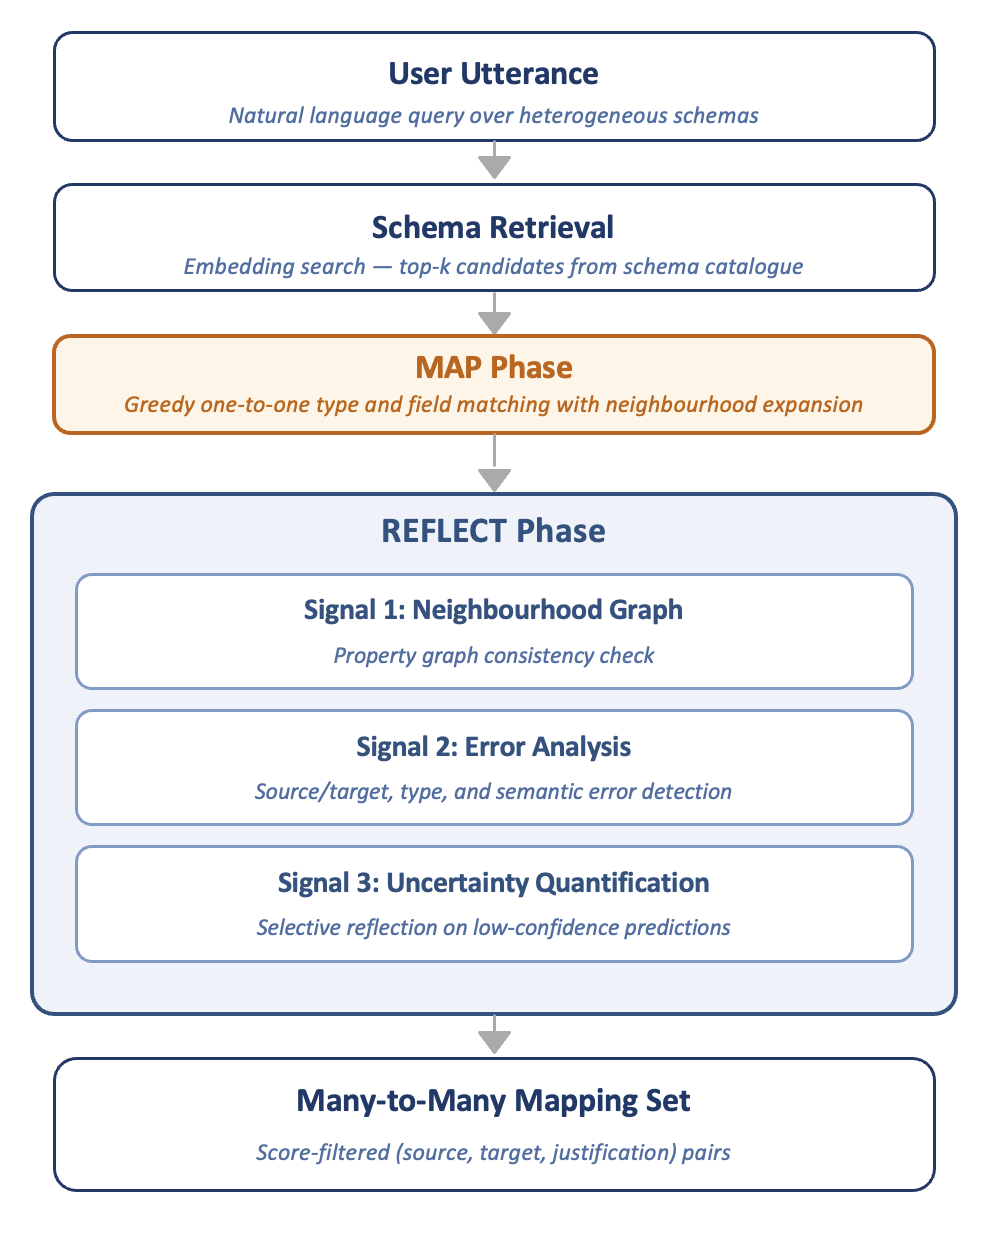
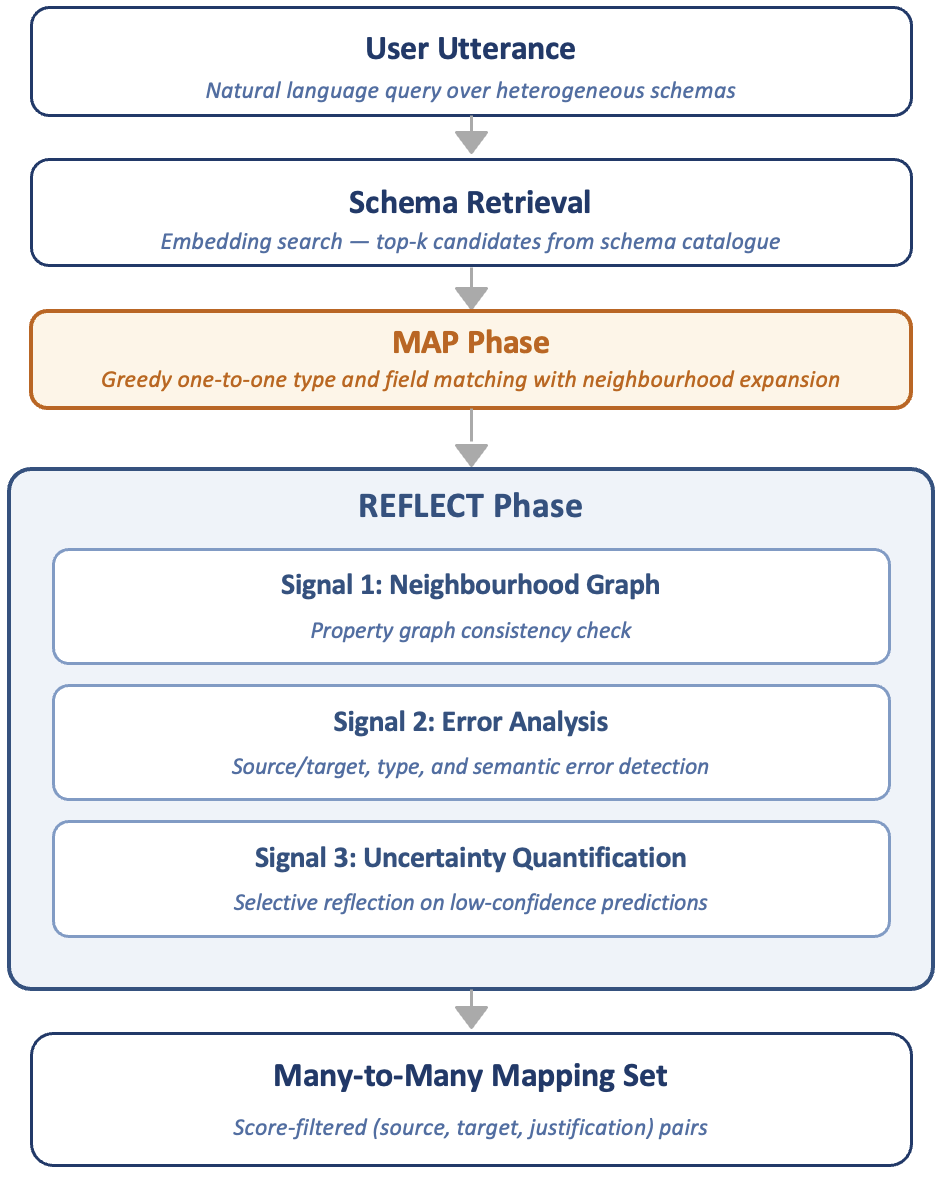
Add litellm fallback and update data scripts
- anytool: Add litellm fallback when WatsonX SDK unavailable
- data scripts: Enhanced hierarchy conversion and NL2GQL eval creation
- .gitignore: Add *.graphql data files
- paper: Updated intro diagram
- Remove HANDOFF.md (no longer needed)

Changed region(s): [[0.0, 0.0, 1.0, 1.0]]

diff --git a/data/convert_hierarchy_for_anytool.py b/data/convert_hierarchy_for_anytool.py
@@ -1,63 +1,146 @@
 #!/usr/bin/env python3
 """Convert OMOP hierarchy file format for AnyTool compatibility.
 
-Our format:
+AnyTool agent (anytool_agent.py) expects properties as OBJECTS with name/description/type:
 {
   "OMOP": {
-    "PERSON": {
-      "fields": [{"name": "field1", ...}],
-      "description": "..."
-    }
+    "PERSON": [
+      {"name": "person_id", "description": "Primary key", "type": "INTEGER"},
+      {"name": "gender_concept_id", "description": "Gender concept", "type": "INTEGER"}
+    ]
   }
 }
 
-AnyTool expects:
+But our hierarchy files have properties as STRINGS:
 {
   "OMOP": {
-    "PERSON": [{"name": "field1", ...}]  # Just the fields list
+    "PERSON": ["person_id", "gender_concept_id", ...]
   }
 }
+
+This script converts string lists to object lists, enriching with descriptions from API lookup.
 """
 
 import json
 import sys
 from pathlib import Path
 
-def convert_hierarchy(input_file: str, output_file: str = None):
-    """Convert hierarchy file format for AnyTool."""
+def convert_hierarchy(input_file: str, output_file: str = None, api_lookup_file: str = None):
+    """Convert hierarchy file format for AnyTool.
+
+    Args:
+        input_file: Input hierarchy JSON file
+        output_file: Output file (defaults to input_anytool_v2.json)
+        api_lookup_file: Optional API lookup file to get field descriptions
+    """
     with open(input_file) as f:
         data = json.load(f)
+
+    # Load API lookup for descriptions if available
+    api_lookup = {}
+    if api_lookup_file:
+        try:
+            with open(api_lookup_file) as f:
+                api_data = json.load(f)
+                for prop in api_data.get('properties', []):
+                    name = prop.get('name', '').lower()
+                    if name:
+                        api_lookup[name] = prop
+        except Exception as e:
+            print(f"Warning: Could not load API lookup: {e}")
 
     converted = {}
     for product_name, product_data in data.items():
         converted[product_name] = {}
         if isinstance(product_data, dict):
             for type_name, type_data in product_data.items():
+                # Get field list based on input format
                 if isinstance(type_data, dict) and 'fields' in type_data:
-                    # Convert from {fields: [...], description: "..."} to just [...]
-                    converted[product_name][type_name] = type_data['fields']
+                    fields = type_data['fields']
+                    type_desc = type_data.get('description', '')
                 elif isinstance(type_data, list):
-                    # Already in the right format
-                    converted[product_name][type_name] = type_data
+                    fields = type_data
+                    type_desc = ''
                 else:
                     print(f"Warning: Unexpected type_data format for {product_name}.{type_name}: {type(type_data)}")
-                    converted[product_name][type_name] = []
+                    fields = []
+                    type_desc = ''
+
+                # Convert each field to object format
+                field_objects = []
+                for field in fields:
+                    if isinstance(field, dict):
+                        # Already an object
+                        field_objects.append(field)
+                    elif isinstance(field, str):
+                        # String - convert to object with description
+                        # Look up description in API lookup
+                        lookup_key = f"{product_name.lower()}_{type_name.lower()}.{field}".lower()
+                        field_info = api_lookup.get(lookup_key, {})
+                        if not field_info:
+                            field_info = api_lookup.get(field.lower(), {})
+
+                        field_objects.append({
+                            "name": field,
+                            "description": field_info.get('description', f"{field} field in {type_name}"),
+                            "type": field_info.get('type', 'STRING')
+                        })
+
+                converted[product_name][type_name] = field_objects
 
     if output_file is None:
-        # Default output: replace .json with _anytool.json
-        output_file = input_file.replace('.json', '_anytool.json')
+        # Default output: replace .json with _anytool_v2.json
+        output_file = input_file.replace('.json', '_anytool_v2.json')
 
     with open(output_file, 'w') as f:
         json.dump(converted, f, indent=2)
 
     print(f"Converted {input_file} -> {output_file}")
+
+    # Print summary
+    for prod in converted:
+        total_fields = sum(len(converted[prod][t]) for t in converted[prod])
+        print(f"  {prod}: {len(converted[prod])} types, {total_fields} fields")
+
     return output_file
+
+
+def convert_all_omop():
+    """Convert all OMOP hierarchy files."""
+    data_dir = Path(__file__).parent
+
+    conversions = [
+        ('omop_cms_hierarchy.json', 'omop_cms_hierarchy_anytool_v2.json', 'omop_cms_api_lookup.json'),
+        ('omop_mimic_hierarchy.json', 'omop_mimic_hierarchy_anytool_v2.json', 'omop_mimic_api_lookup.json'),
+        ('omop_synthea_hierarchy.json', 'omop_synthea_hierarchy_anytool_v2.json', 'omop_synthea_api_lookup.json'),
+    ]
+
+    for input_name, output_name, lookup_name in conversions:
+        input_file = data_dir / input_name
+        output_file = data_dir / output_name
+        lookup_file = data_dir / lookup_name
+
+        if input_file.exists():
+            convert_hierarchy(
+                str(input_file),
+                str(output_file),
+                str(lookup_file) if lookup_file.exists() else None
+            )
+        else:
+            print(f"Skipping {input_name} - file not found")
+
 
 if __name__ == "__main__":
     if len(sys.argv) < 2:
-        print("Usage: python convert_hierarchy_for_anytool.py <input_file> [output_file]")
+        print("Usage:")
+        print("  python convert_hierarchy_for_anytool.py <input_file> [output_file] [api_lookup_file]")
+        print("  python convert_hierarchy_for_anytool.py --all  # Convert all OMOP files")
         sys.exit(1)
 
-    input_file = sys.argv[1]
-    output_file = sys.argv[2] if len(sys.argv) > 2 else None
-    convert_hierarchy(input_file, output_file)
+    if sys.argv[1] == '--all':
+        convert_all_omop()
+    else:
+        input_file = sys.argv[1]
+        output_file = sys.argv[2] if len(sys.argv) > 2 else None
+        api_lookup = sys.argv[3] if len(sys.argv) > 3 else None
+        convert_hierarchy(input_file, output_file, api_lookup)

diff --git a/anytool/anytool_agent.py b/anytool/anytool_agent.py
@@ -7,15 +7,29 @@ from langchain_core.tools import StructuredTool
 from langchain_core.messages import HumanMessage, AIMessage, SystemMessage
 from langgraph.graph import StateGraph, END
 from langgraph.prebuilt import ToolNode
-import os
-from ibm_watsonx_ai import Credentials
-from ibm_watsonx_ai.metanames import GenTextParamsMetaNames as GenParams
-from ibm_watsonx_ai.foundation_models.utils.enums import DecodingMethods
-from ibm_watsonx_ai.foundation_models import ModelInference
 import operator
 import re
 from dotenv import load_dotenv
 load_dotenv()
+
+# Try to import WatsonX SDK, fall back to litellm
+HAS_WATSONX_SDK = False
+try:
+    from ibm_watsonx_ai import Credentials
+    from ibm_watsonx_ai.metanames import GenTextParamsMetaNames as GenParams
+    from ibm_watsonx_ai.foundation_models.utils.enums import DecodingMethods
+    from ibm_watsonx_ai.foundation_models import ModelInference
+    HAS_WATSONX_SDK = True
+except ImportError:
+    print("ibm_watsonx_ai not available, using litellm")
+
+# Import litellm as fallback
+try:
+    import litellm
+    HAS_LITELLM = True
+except ImportError:
+    HAS_LITELLM = False
+    print("WARNING: litellm not available")
 
 # # Enable verbose logging for debugging
 # litellm.set_verbose = True
@@ -202,10 +216,17 @@ def format_prompt_for_model(messages, model_id):
 
 
 def call_llm(messages, model=None):
-    """Call IBM watsonx.ai using native SDK"""
+    """Call IBM watsonx.ai using native SDK or litellm fallback"""
     if model is None:
         print("################ Why is model None? ###############")
         model = MODEL
+
+    # Use litellm if WatsonX SDK not available
+    if not HAS_WATSONX_SDK:
+        if not HAS_LITELLM:
+            raise RuntimeError("Neither ibm_watsonx_ai nor litellm available")
+        return call_llm_litellm(messages, model)
+
     try:
         # Get credentials
         api_key = os.getenv("WATSONX_API_KEY") or os.getenv("WATSONX_APIKEY")
@@ -249,6 +270,48 @@ def call_llm(messages, model=None):
             raise RuntimeError(f"Critical LLM error: {e}") from e
 
         print(f"LLM Error: {str(e)}")
+        return f"Error calling LLM: {str(e)}"
+
+
+def call_llm_litellm(messages, model):
+    """Call LLM using litellm (fallback when WatsonX SDK unavailable)"""
+    try:
+        # Ensure model has watsonx/ prefix for litellm
+        if not model.startswith("watsonx/"):
+            model = f"watsonx/{model}"
+
+        # Convert messages to litellm format
+        litellm_messages = []
+        for msg in messages:
+            if isinstance(msg, dict):
+                litellm_messages.append(msg)
+            elif hasattr(msg, 'role') and hasattr(msg, 'content'):
+                litellm_messages.append({"role": msg.role, "content": msg.content})
+            elif isinstance(msg, SystemMessage):
+                litellm_messages.append({"role": "system", "content": msg.content})
+            elif isinstance(msg, HumanMessage):
+                litellm_messages.append({"role": "user", "content": msg.content})
+            elif isinstance(msg, AIMessage):
+                litellm_messages.append({"role": "assistant", "content": msg.content})
+
+        response = litellm.completion(
+            model=model,
+            messages=litellm_messages,
+            temperature=0.1,
+            max_tokens=1000,
+        )
+
+        return response.choices[0].message.content
+
+    except Exception as e:
+        error_str = str(e).lower()
+        critical_patterns = ["authentication", "unauthorized", "api key", "project", "provider not", "exceeded limit"]
+
+        if any(p in error_str for p in critical_patterns):
+            print(f"CRITICAL LLM error - stopping execution: {e}")
+            raise RuntimeError(f"Critical LLM error: {e}") from e
+
+        print(f"LLM Error (litellm): {str(e)}")
         return f"Error calling LLM: {str(e)}"
 
 # Node functions

diff --git a/data/create_nl2gql_eval.py b/data/create_nl2gql_eval.py
@@ -43,15 +43,33 @@ def extract_eval_samples(dataset_file: str, max_samples: int = None) -> List[Dic
                 # Get target table from first mapping
                 target_table = ''
                 ground_truth_mapping = {}
-                
+
                 for src_field, mappings in properties.items():
                     if mappings and isinstance(mappings, list):
                         target_table = mappings[0].get('mapTable', '')
                         target_field = mappings[0].get('mapProperty', '')
-                        
-                        # Build ground truth mapping
+
+                        # Build ground truth mapping with nl2gql_Table.field format
+                        # to match property lookup naming convention
+                        # Format: nl2gql_Singer_in_concert.concert_id (first letter capitalized, rest lowercase)
                         if target_field:
-                            ground_truth_mapping[src_field] = [target_field]
+                            # Convert source field: concert_stadium_id -> nl2gql_Concert.stadium_id
+                            # Strip table prefix from field name
+                            src_field_name = src_field
+                            if src_field.startswith(source_table + '_'):
+                                src_field_name = src_field[len(source_table) + 1:]
+                            # First letter capitalized: singer_in_concert -> Singer_in_concert
+                            src_table_fmt = source_table[0].upper() + source_table[1:] if source_table else ''
+                            src_key = f"nl2gql_{src_table_fmt}.{src_field_name}"
+
+                            # Convert target field: stadium_stadium_id -> nl2gql_Stadium.stadium_id
+                            tgt_field_name = target_field
+                            if target_field.startswith(target_table + '_'):
+                                tgt_field_name = target_field[len(target_table) + 1:]
+                            tgt_table_fmt = target_table[0].upper() + target_table[1:] if target_table else ''
+                            tgt_key = f"nl2gql_{tgt_table_fmt}.{tgt_field_name}"
+
+                            ground_truth_mapping[src_key] = [tgt_key]
                 
                 # Skip if missing required fields or duplicate utterance
                 if not utterance or not source_table or not target_table:
